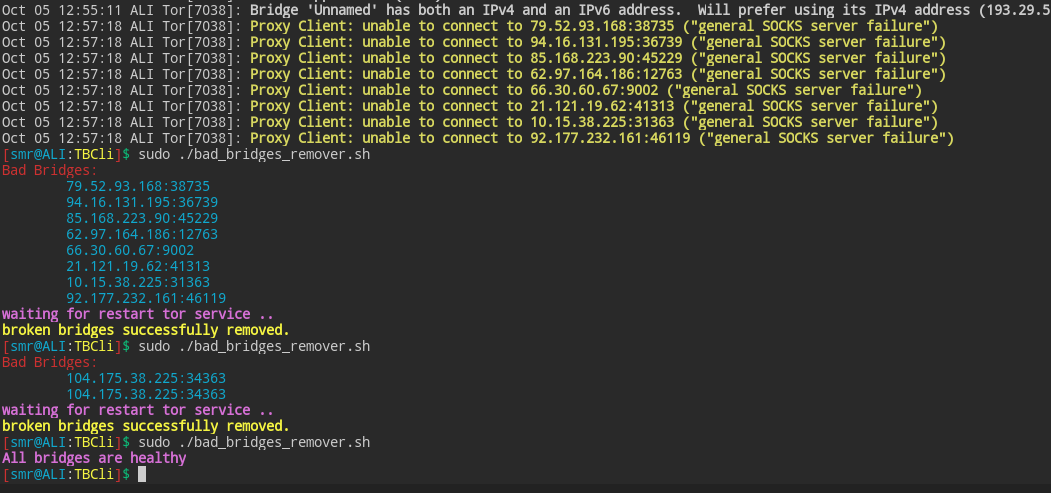
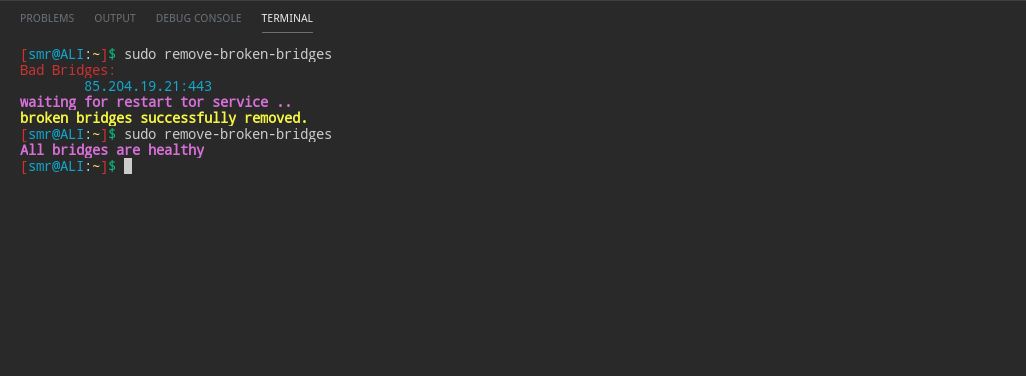
README.md updated . installer updated . screenshot remove broken bridges updated

Changed region(s): [[0.0, 0.0, 1.0, 0.9947]]

diff --git a/README.md b/README.md
@@ -17,7 +17,7 @@ Install these packages with your package manager:
 ## Download
 with curl :
 ```bash
-mkdir -p /tmp/tor-installer && cd /tmp/tor-installer && curl -s -o tor-bridges-installer https://raw.githubusercontent.com/MicroRobotProgrammer/TorBridge/master/TorBridgesInstaller.sh && chmod +x tor-bridges-installer && ./tor-bridges-installer
+mkdir -p /tmp/tor-installer && cd /tmp/tor-installer && curl -s -o tor-bridges-installer https://raw.githubusercontent.com/MicroRobotProgrammer/TorBridge/master/TorBridgesInstaller.sh && chmod +x tor-bridges-installer && ./tor-bridges-installer && cd
 ```
 
 ## Run
